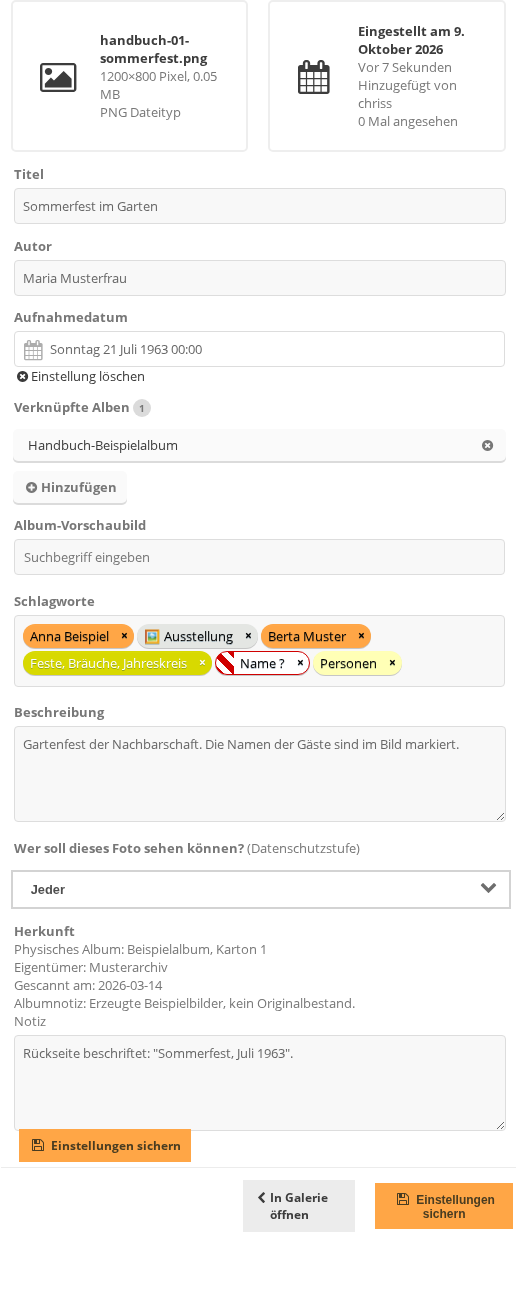
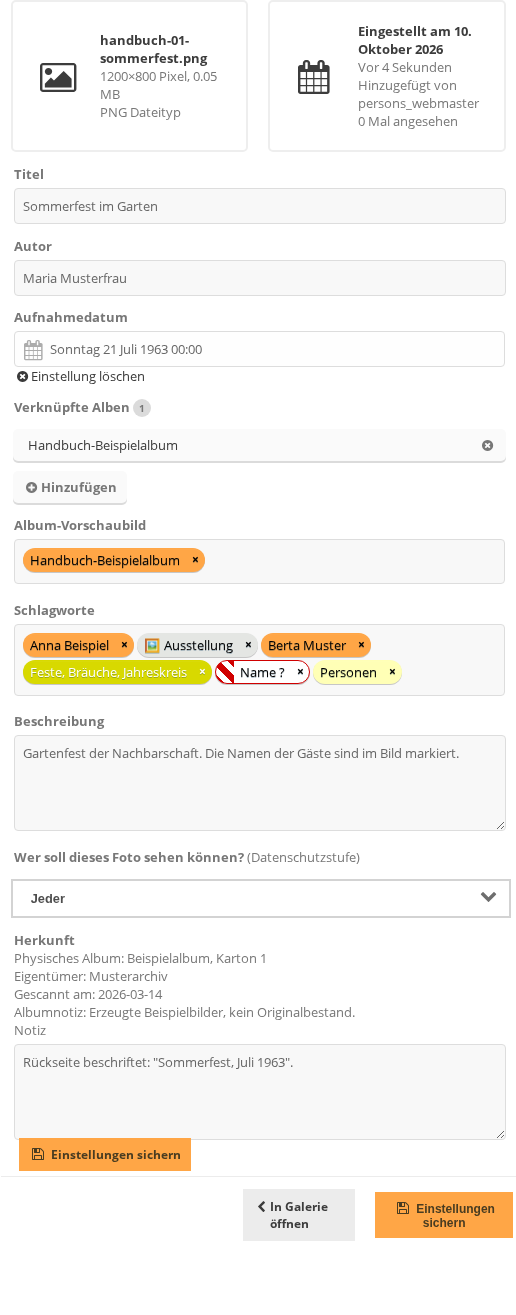
handbuch: re-shoot 09 (persons_webmaster), 24 and 25 (quiet Abbrechen), new 26 for 07
Every other re-shot screenshot was churn (fresh ids) and is reverted.
Install back to 5 albums / 105 photos after --restore.

diff --git a/handbuch/07-fotoseite.html b/handbuch/07-fotoseite.html
@@ -15,8 +15,8 @@
 </p>
 
 <figure>
-  <img src="assets/screenshots/11-foto-oeffentlich.png" alt="Die Fotoseite mit der Leiste über dem Foto" />
-  <figcaption>Die Fotoseite. In der Leiste über dem Foto stehen -, Einpassen, 100 % und +.</figcaption>
+  <img src="assets/screenshots/26-fotoseite-leiste.png" alt="Die Leiste über dem Foto. In der Mitte die Schaltflächen Minus, Einpassen, 100 % und Plus, rechts die Pfeile zum Blättern." />
+  <figcaption>Die Leiste über dem Foto, in der Mitte -, Einpassen, 100 % und +.</figcaption>
 </figure>
 
 <h3>Das Foto vergrößern</h3>

diff --git a/docs/agents/plans/2026-10-10-handbuch-third-pass.md b/docs/agents/plans/2026-10-10-handbuch-third-pass.md
@@ -308,14 +308,14 @@ Style: brief, steps as full sentences, notes may be fragments, no em/en dashes, 
 #### [x] 5.1 `handbuch/tools/seed.php:886`: `added_by` = id of `persons_webmaster` looked up by
 username; refuse if missing (names `create-test-users.php`)
 #### [x] 5.2 `handbuch/tools/shoot.js`: declare `26-fotoseite-leiste.png`, `#imageToolBar` as NORMAL
-#### [ ] 5.3 seed, shoot, restore (`.claude/rules/handbook.md`); keep 09, 24, 25, 26 and 11 if A4's
+#### [x] 5.3 seed, shoot, restore (`.claude/rules/handbook.md`); keep 09, 24, 25, 26 and 11 if A4's
 caption changed it; revert every other re-shoot
-#### [ ] 5.4 view each kept shot against its text; 07 references shot 26
+#### [x] 5.4 view each kept shot against its text; 07 references shot 26
 
 ### Success Criteria
-- [ ] `shoot.js` `assertOutput()` passes; `check.php` green; `handbuch-pages.spec.js` green
-- [ ] install back to 5 albums after `--restore`
-- [ ] 09 shows `persons_webmaster`, not `chriss`
+- [x] `shoot.js` `assertOutput()` passes; `check.php` green; `handbuch-pages.spec.js` green (26 shots; 13 passed, 2026-10-10)
+- [x] install back to 5 albums after `--restore` (5 albums, 105 photos)
+- [x] 09 shows `persons_webmaster`, not `chriss`
 
 ---
 
